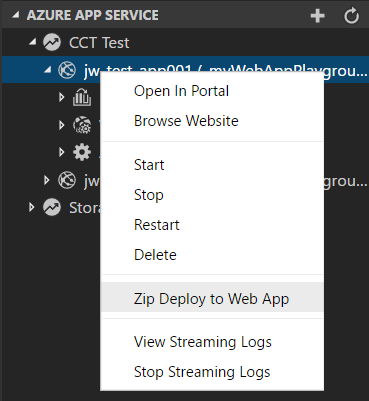
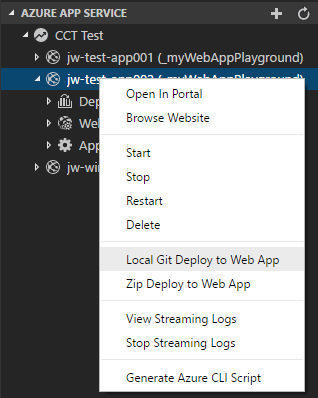
Update README & CHANGELOG for 0.3.0  (#139)

diff --git a/CHANGELOG.md b/CHANGELOG.md
@@ -1,11 +1,16 @@
 # Change Log
 All notable changes to the "azure-appservice" extension will be documented in this file.
 
-Check [Keep a Changelog](http://keepachangelog.com/) for recommendations on how to structure this file.
-
-## [Unreleased]
+## 0.3.0 - 2017-10-18
 ### Added
 - Local Git deployment
+- "Create New Web App" remembers user selection
+- A setting to show/hide the App Service Explorer
+- Swap deployment slots with production site
+- "Open In Portal" context menu command for Application Settings
+- Generate bash script based on existing web app for automated resource provisioning
+### Removed
+- "Create New Web App" no longer show bash script, use "Generate Azure CLI Script" context menu command instead.
 ### Fixed
 - [Bugs fixed](https://github.com/Microsoft/vscode-azureappservice/issues?q=is%3Aissue+milestone%3A%22Version+0.3.0%22+is%3Aclosed+label%3Abug)
 

diff --git a/README.md b/README.md
@@ -10,6 +10,7 @@ The Azure App Services extension for VS Code lets you quickly browse, create, ma
 
 ![Deploy to Web App](resources/WebApp_Deploy.png)
 * Start, stop, and restart the web app/deployment slot
+* Swap deployment slots
 * View and edit web app settings
 
 ![Add App Settings](resources/ApplicationSettings_Add.png)
@@ -17,6 +18,11 @@ The Azure App Services extension for VS Code lets you quickly browse, create, ma
 * View web app log stream
 
 ![Web App Log Stream](resources/WebApp_LogStream.png)
+
+## Known Issues
+
+* Zip deployment may fail if the project you try to publish is too big
+* Local Git deployment may fail with large commits
 
 ## Requirements
 
